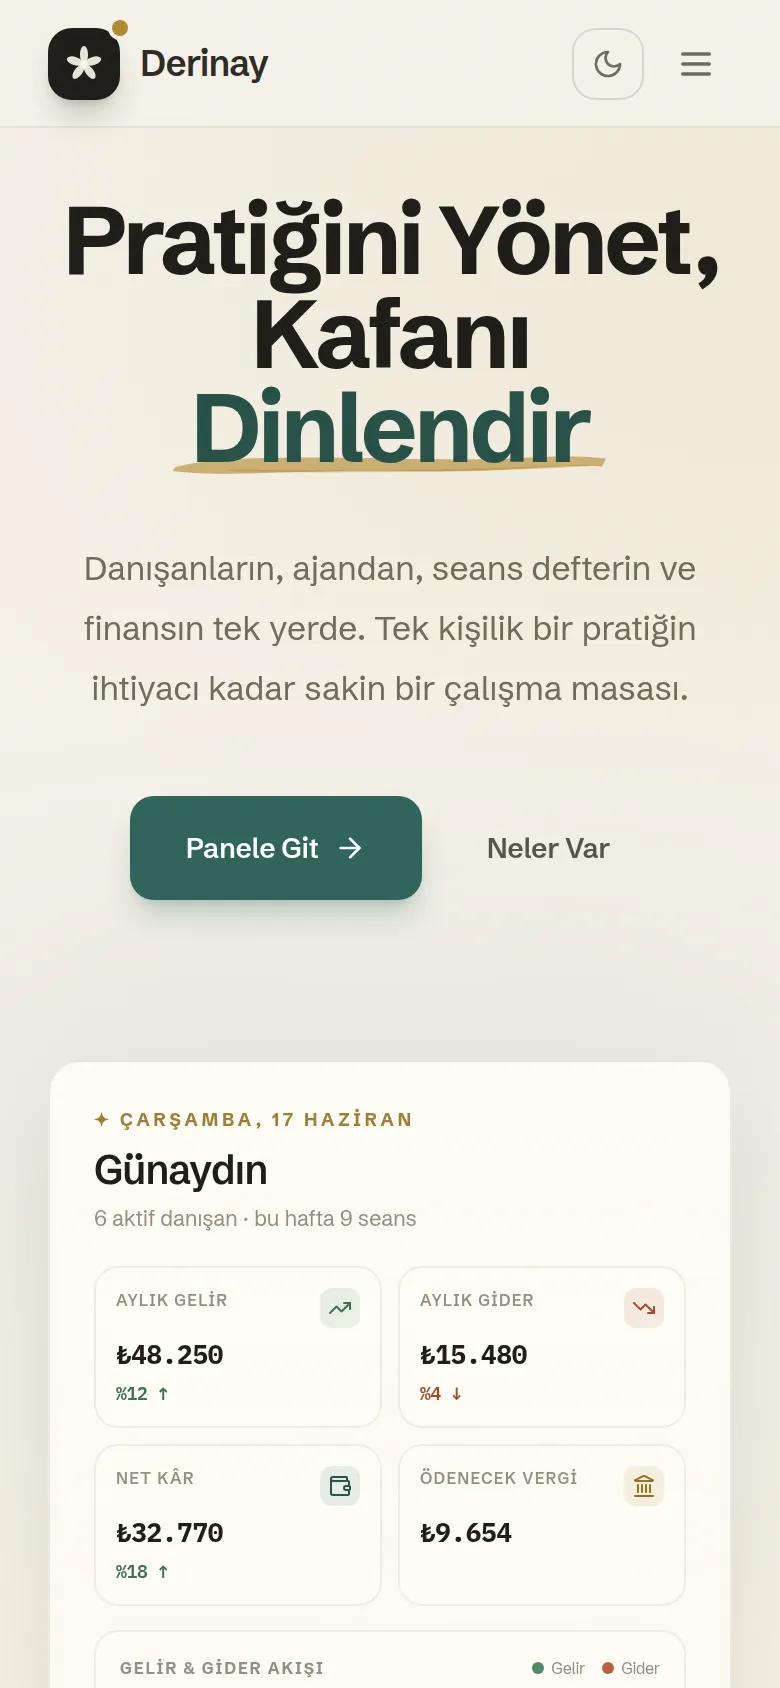
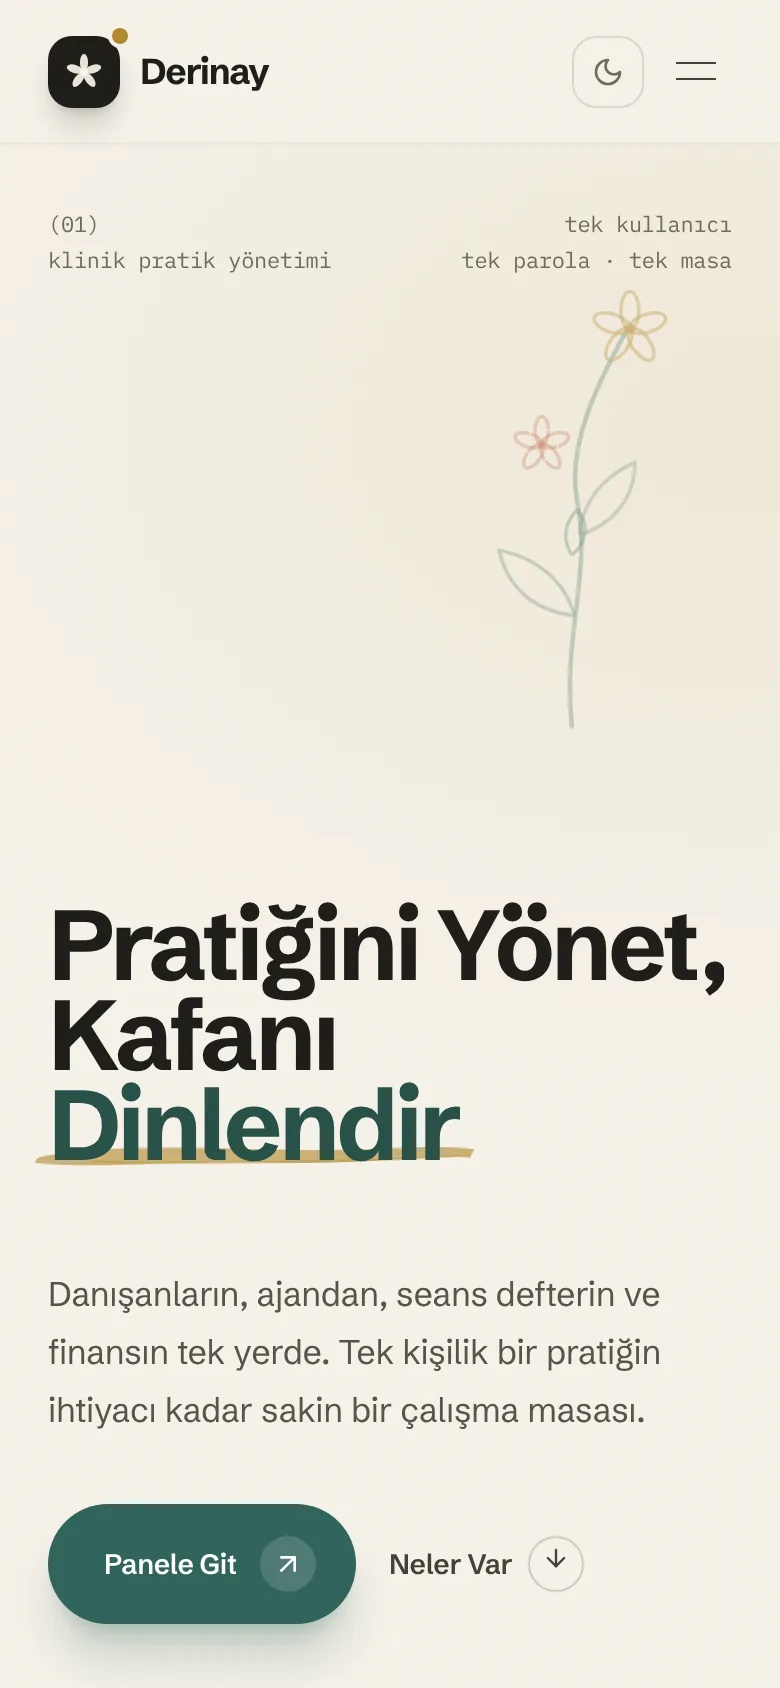
feat: refresh Derinay screenshots after the Atölye Sahnesi revision
Full set now: landing hero, showcase panel slice and phone hero, both
themes (2160x1350 / 780x1688).

Claude-Session: https://claude.ai/code/session_01H6kmm1E1SHFoWjSJqXjhtP

diff --git a/lib/content/project-shots.ts b/lib/content/project-shots.ts
@@ -10,7 +10,8 @@ import { projectShot, type ShotView } from '@/lib/project-shot'
  *   karalama ve dungeon-mates yalnız KOYU temalı: iki dosya da
  *   koyu, o yüzden `themed: false` (tek görsel, ikisini indirmeye gerek yok).
  * - Yalnız desktop, 1280×800: eski görselin kopyası; iki dosya aynı.
- * - derinay ve elevenforge: eski desktop + yeni mobile (780×1688), tek temalı.
+ * - elevenforge: eski desktop + yeni mobile (780×1688), tek temalı.
+ *   derinay 9 Ekim 2026'da "Atölye Sahnesi" revizyonuyla tam sete geçti.
  * - dev-starter: ekran görüntüsü yok, README afişi (1280×360, iki temalı SVG).
  *   Afişteki başlık gradyanla DOLDURULMAZ: WebKit `<img>` içindeki SVG'de
  *   gradyanlı metni düşük çözünürlükte basıp büyütüyor ve iPhone'da yalnız
@@ -58,7 +59,11 @@ export const PROJECT_SHOTS = {
   'dungeon-mates': { views: ALL_VIEWS, themed: false, size: FULL, darkInk: true },
   harfiyen: { views: DESKTOP_ONLY, themed: false, size: LEGACY, darkInk: true },
   elevenforge: { views: DESKTOP_AND_MOBILE, themed: false, size: LEGACY_WITH_MOBILE, darkInk: true },
-  derinay: { views: DESKTOP_AND_MOBILE, themed: false, size: LEGACY_WITH_MOBILE },
+  /* "Atölye Sahnesi" görsel revizyonu sonrası tam set (9 Ekim 2026): landing
+     kahramanı, vitrindeki panel kesiti ve telefon kahramanı; iki temalı.
+     desktop-2 iki temada da koyu: vitrin landing'in "gece adası", tema
+     değişse de koyu kalır. */
+  derinay: { views: ALL_VIEWS, themed: true, size: FULL },
   keskealsaydim: { views: DESKTOP_ONLY, themed: false, size: LEGACY, darkInk: true },
   'ramazan-vakitleri': { views: DESKTOP_ONLY, themed: false, size: LEGACY, darkInk: true },
   /* Yeniden tasarım sonrası tam set (9 Ekim 2026): landing hero, notlar
